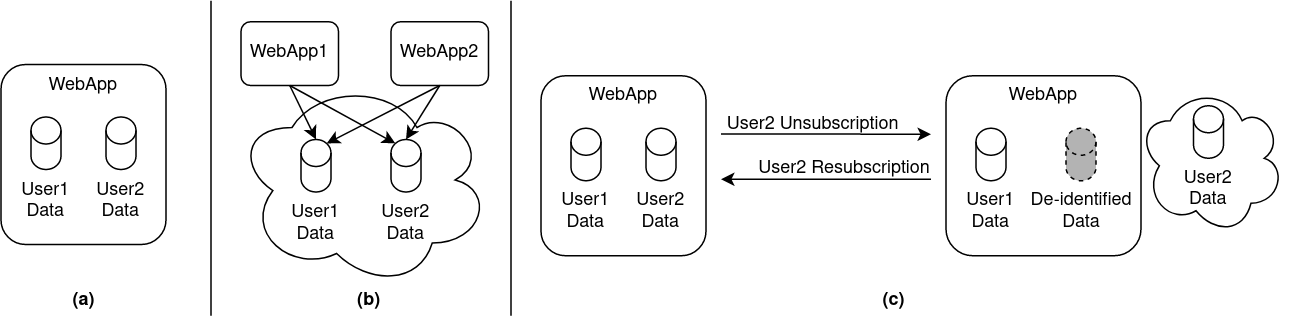
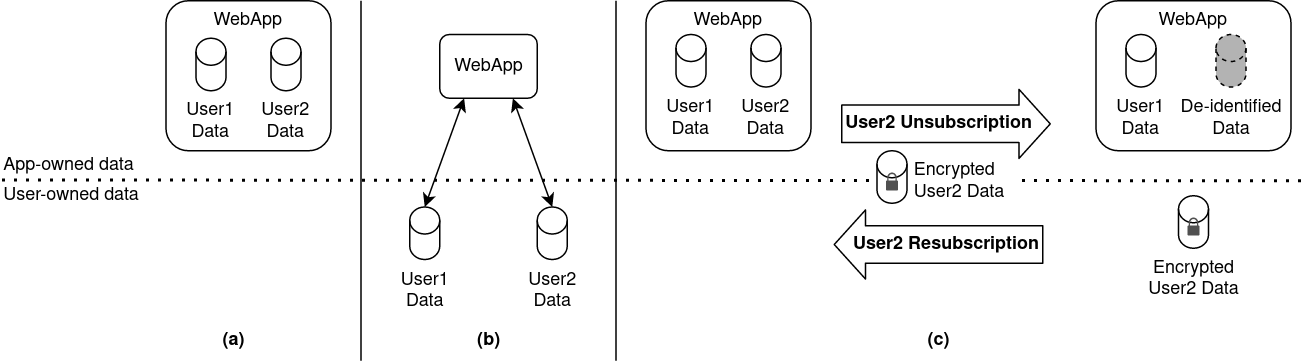
another pass through intro, address eddie comments

diff --git a/hotos21/intro.tex b/hotos21/intro.tex
@@ -6,34 +6,37 @@ Web applications today own, store, and sell user data, often without the user's 
 explicit consent~\cite{nytimes:fb, npr:data}. This has dangerous consequences for both users and
 application developers: data leaks~\cite{breach:twitter, breach:fb, breach:marriott, breach:quora}
 has led to loss of livelihoods and lawsuits. Granting web applications such complete data
-ownership fails to protect users' privacy. To address this problem, laws such as the European
-Union's General Data Protection Regulation (GDPR)~\cite{eu:gdpr} and California's Consumer Privacy
-Act (CCPA)~\cite{ca:privacy-act} codify users' rights to data ownership, granting users the right to
-request erasure of information related to them, and moving toward a world where user data ownership
-is fundamental and complete.
+ownership clearly fails to protect users' privacy. 
 
 However, a world in which the user has complete data ownership is equally problematic. Although
 theoretically feasible~\cite{amber, w5, blockstack, bstore}, this model results in an arguably even
-less desirable world for users. Applications become slow and limited in their usefulness to perform 
-service-side computation over shared data, and users are burdened with long-term data
-maintenance and storage. \lyt{Not sure if we should mention the business model here, without addressing
-how one could charge for user storage/application use, or how applications could be open-source and
-funded via donations, etc.}
+less desirable world for users. 
+%
+Applications that must compute on per-user, filesystem-esque storage become slow and limited, run
+as JavaScript in users' browsers, and without the flexibility and easy of programming over SQL
+databases with application-specific schemas.  Service-side computation and data sharing between
+users---the main reason users use applications to begin with---becomes cumbersome, especially with
+the addition of access control and authentication needed in order to access each users' data
+individually. Furthermore, users are burdened with long-term data maintenance and storage: solutions
+that use PKI, such as Blockstack~\cite{blockstack}, require users to maintain a master private key,
+a cumbersome and fragile solution in which losing the key results in permanent loss of all the
+user's data.
+%
+Finally, the current business model in which applications profit from user data, becomes infeasible,
+requiring that users change the way they pay for services \lyt{this might not be a bad thing, though}.
 
 This paper proposes a new model for web applications that balances users' desire for privacy with
 their desire for application utility. In this model, users subscribe to applications by granting a
 time-limited lease to their data, with the provision that the application may retain only
-de-identified information once the user unsubscribes. Users flexibly switch between a privacy-preserving
-unsubscribed mode and an identity-revealing subscribed mode at any time without permanently losing
-their data, or needing to maintain their account data themselves. 
-
-This model clearly benefits the user: they can choose privacy at any time, without permanent loss of
-the application's storage and utility benefits. But more importantly, the model benefits application
-developers as well: user data can still be used to generate profit, the application retains less
-compromising data, and the application supports the (legally mandated) right to be forgotten while
-allowing its departing users to easily come back. Figure~\ref{fig:world} illustrates this
-flexible transfer of data ownership in our new model, as compared to the two extremes of complete
-user ownership and complete application ownership of user data.
+de-identified information once the user unsubscribes. Users flexibly switch between a
+privacy-preserving unsubscribed mode and an identity-revealing subscribed mode at any time without
+permanently losing their data. Applications can continue to operate using their current web
+architecture, retaining their revenue model, performance and reliability, and utility for their
+users. Applications do not need to access any removed unsubscribed users' data, simplifying the
+storage of this data when users enter privacy-preserving mode.
+Figure~\ref{fig:world} illustrates this flexible transfer of data ownership in our new model,
+compared to the two extremes of complete user ownership and complete application ownership of user
+data.
 
 \begin{figure*}[ht!]
     \centering
@@ -47,23 +50,35 @@ user ownership and complete application ownership of user data.
     \label{fig:world}
 \end{figure*}
 
-With legal and societal incentives pushing web applications toward such a model, we see applications
-taking the first steps by supporting GDPR unsubscription requests. However, we are far from
-achieving a world of easy unsubscription and resubscription: unsubscription is cumbersome (users
-often contact the developers or customer support directly in order to unsubscribe), and the
-implementation of unsubscription is manual, coarse-grained and error-prone, and can fail to
-completely de-identify the user.  Even worse, no existing application (to our knowledge) supports
-privacy-preserving unsubscription with the possiblity of resubscription.  Application unsubscription
-thus permanently deletes years or even decades of accumulated application data, costing both users
-and the web application, and creating little incentive to lower barriers to unsubscription. 
+This model clearly benefits the user: they can choose privacy at any time, without permanently
+losing their accounts or affecting the utility of the applications for others.  But more
+importantly, the model benefits application developers as well. Recent laws such as the European
+Union's General Data Protection Regulation (GDPR)~\cite{eu:gdpr} and California's Consumer Privacy
+Act (CCPA)~\cite{ca:privacy-act} codify users' rights to data ownership, granting users the right to
+request erasure of information related to them, and creating incentives web applications to adopt
+this model of flexible privacy. With this model, applications can support the (legally mandated)
+right to be forgotten, while allowing its departing users to easily come back. Applications can
+still use subscribed users' data to generate profit, and retain use of de-identified data even when
+users unsubscribe; this ensures that the application holds only identifying data for currently subscribed users,
+reducing the amount of compromising data in the system at any time.
+
+Although applications increasingly support GDPR unsubscription requests, the current state of
+unsubscription and resubscription is far from ideal. Unsubscription is often impossible or
+cumbersome (users often contact the developers or customer support directly in order to
+unsubscribe)~\cite{jdm}, and the implementation of unsubscription is manual, coarse-grained and
+error-prone, and can fail to completely de-identify the user.  Even worse, no existing application
+(to our knowledge) supports privacy-preserving unsubscription with the possiblity of resubscription.
+Application unsubscription thus permanently deletes years or even decades of accumulated application
+data, costing both users and the web application, and creating little incentive to lower barriers to
+unsubscription. 
 
 In order to make this model of flexible privacy and data ownership possible, we must solve the many
 challenges faced by application developers. Key among these are the requirements for applications to
 selectively retain unsubscribed users' data for legal purposes or application utility without also
 identifying the user, and to allow the user to resubscribe at any time to their last-known
 subscribed state. The complex data transformations required by user unsubscription and
-resubscription highlight the need for new tools that allow
-developers to easily and systematically automate the process.
+resubscription highlight the need for new tools that allow developers to easily and systematically
+automate the process.
 %For example, 
 %many applications require that some information remains
 %post-unsubscription, for legal or necessary application use, but retained data can identify a user

diff --git a/hotos21/background.tex b/hotos21/background.tex
@@ -48,7 +48,7 @@
   \\ \cmidrule(r){1-5}
 \end{tabular}
  \caption{The characteristics of unsubscription in a range of web applications.
-    \LEFTcircle indicates that the application permits some data to remain correlated with the user 
+    \LEFTcircle~indicates that the application permits some data to remain correlated with the user 
     post-subscription, but decorrelates other data in its privacy policy.}
     \label{tab:apps}
 \end{table*}
@@ -68,12 +68,11 @@ application developers or customer service directly?
     \item Does unsubscription allow for resubscription, in which unsubscribed users can regain control of their
         account and account data?
 \end{enumerate}
+\lyt{JustDeleteMe~\cite{jdm} rates how easy it is to unsubscribe from a large set of different
+services; we could also include some stats from there here.}
 
 Fewer than half of the services surveyed provide automated unsubscription; all others require the
-user to email or call the application maintainers or support. This indicates the difficulty of
-automating unsubscription correctly, and consequently makes it more  
-inconvenient for users to unsubscribe.
-
+user to email or call the application maintainers or support. 
 All applications retain some user information in some form: for example, Facebook retains copies of
 private messages for other users in the conversation; Reddit retains all posts and comments made by
 the user; Lobsters retains the user's unique username and logs of the user's actions; e-commerce

diff --git a/hotos21/approach.tex b/hotos21/approach.tex
@@ -1,8 +1,7 @@
 \section{Approach}
-To solve these challenges, we present \sys, a system that provides
-abstractions and mechanisms to automate unsubscription and resubscription, and 
-help developers of databased-backed web applications achieve correct, privacy-compliant user
-unsubscription and resubscription without onerous labor.
+To solve these challenges, we present \sys, a system that provides abstractions and mechanisms to
+help developers of databased-backed web applications achieve correct, privacy-compliant, and
+automatic unsubscription and resubscription without onerous labor.
 
 \sys is based on the key observation that users' data can leak identifying information in two ways:
 (1) directly via their content, and (2) indirectly via the structural \emph{correlations} they have

diff --git a/hotos21/design.tex b/hotos21/design.tex
@@ -22,7 +22,7 @@
 \end{table*}
 
 
-\sys's design allows developers to capture exactly which data contents, and which data correlations may be
+\sys's design allows developers to capture exactly which data contents, and which data correlations, may be
 identity-sensitive. \sys models an application's data as a graph of \emph{entity} nodes and edges.
 Each entity type corresponds to an application datatable, such as a users, papers, or reviews table.
 Entities are linked in the entity graph by foreign key relationships: table columns that act as
